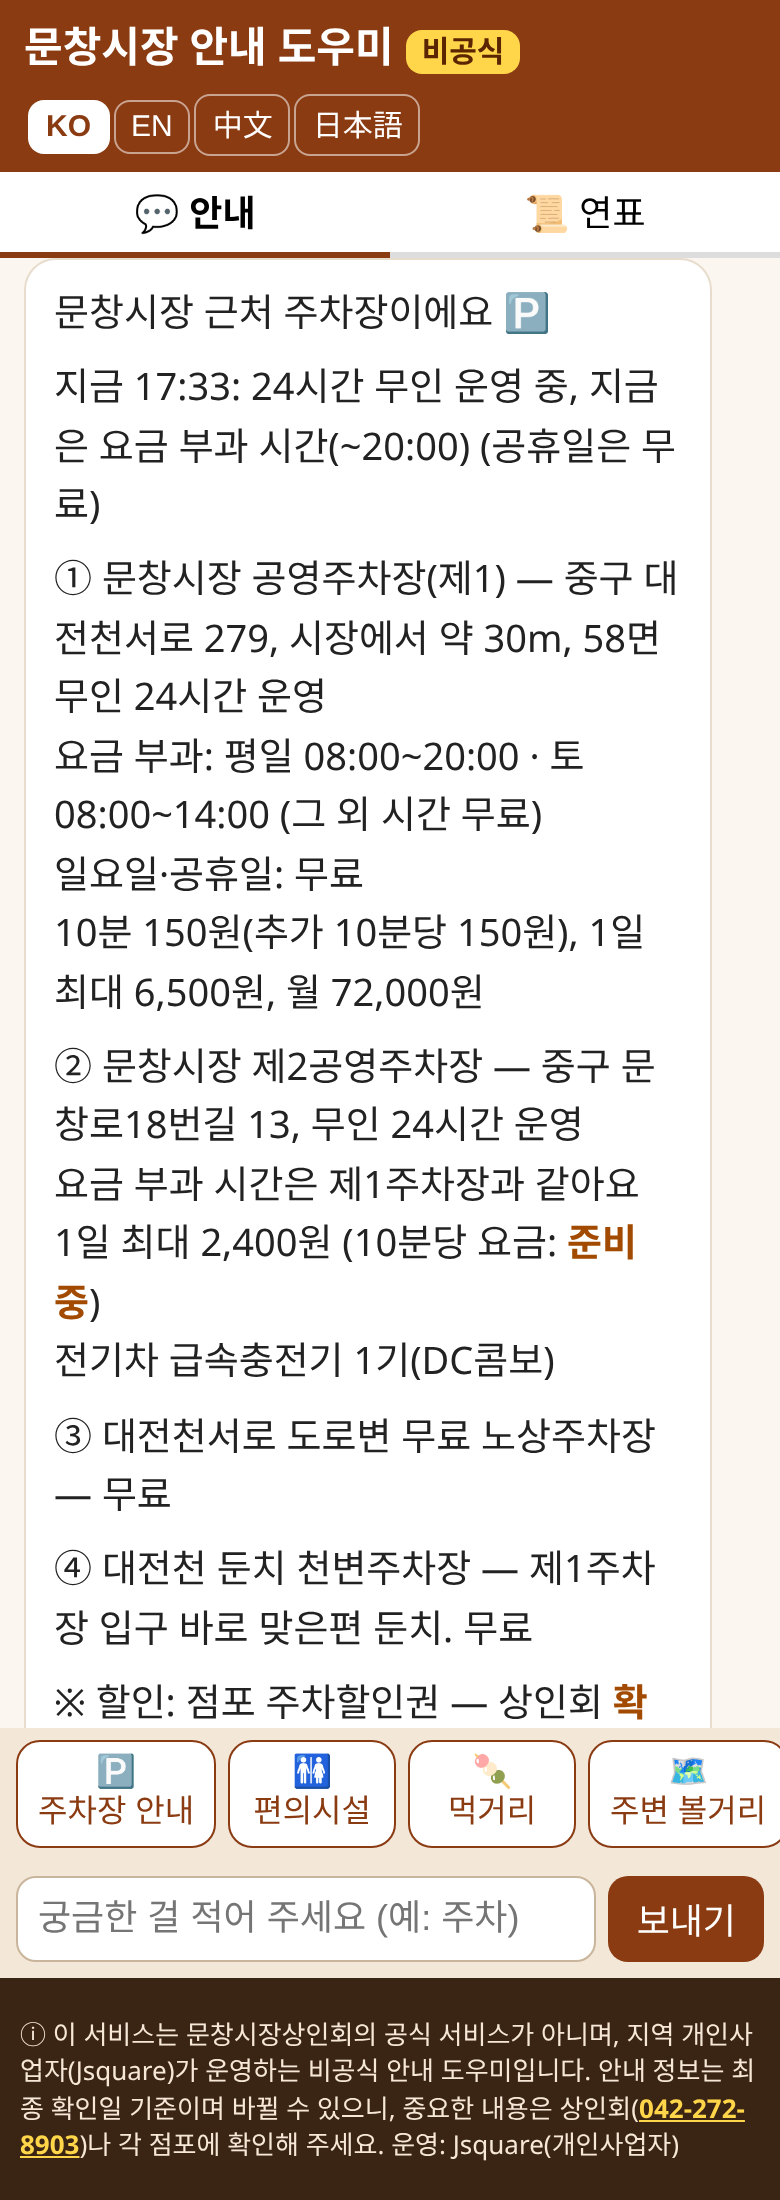
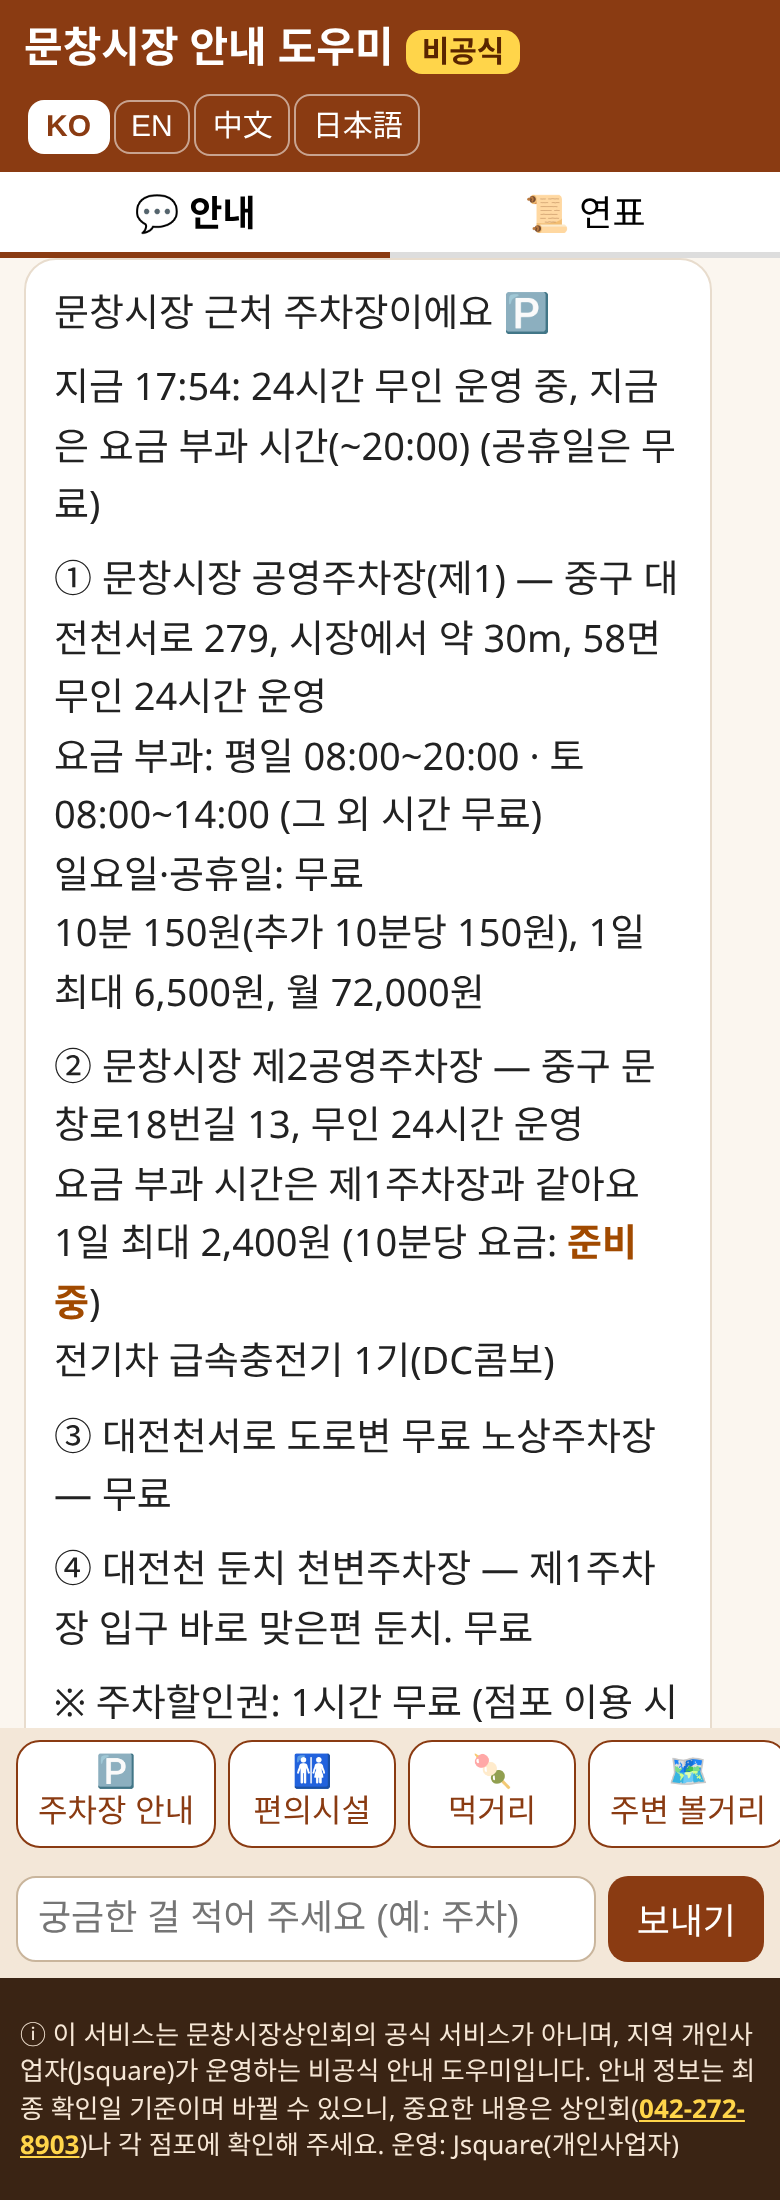
주차할인권 1시간 무료 반영

diff --git a/sw.js b/sw.js
@@ -1,4 +1,4 @@
-const C='munchang-v3',F=['./','index.html','style.css','app.js','data.json','manifest.json','icons/icon-192.png','icons/icon-512.png'];
+const C='munchang-v4',F=['./','index.html','style.css','app.js','data.json','manifest.json','icons/icon-192.png','icons/icon-512.png'];
 self.addEventListener('install',e=>e.waitUntil(caches.open(C).then(c=>c.addAll(F)).then(()=>self.skipWaiting())));
 self.addEventListener('activate',e=>e.waitUntil(caches.keys().then(k=>Promise.all(k.filter(x=>x!=C).map(x=>caches.delete(x)))).then(()=>self.clients.claim())));
 // data.json: network first so edits show up; others cache first
